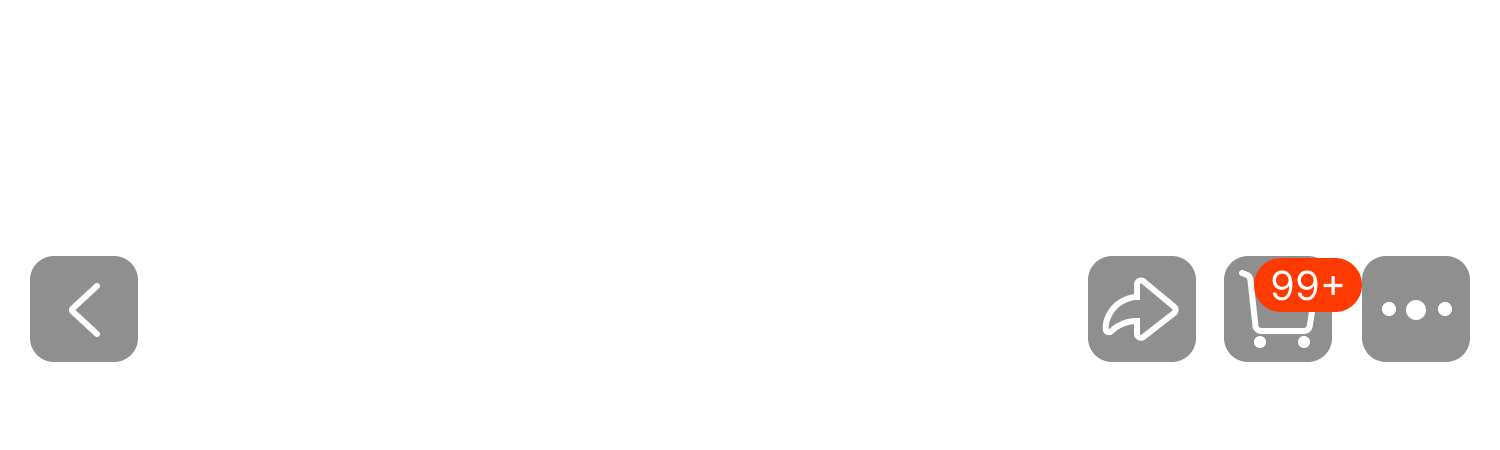
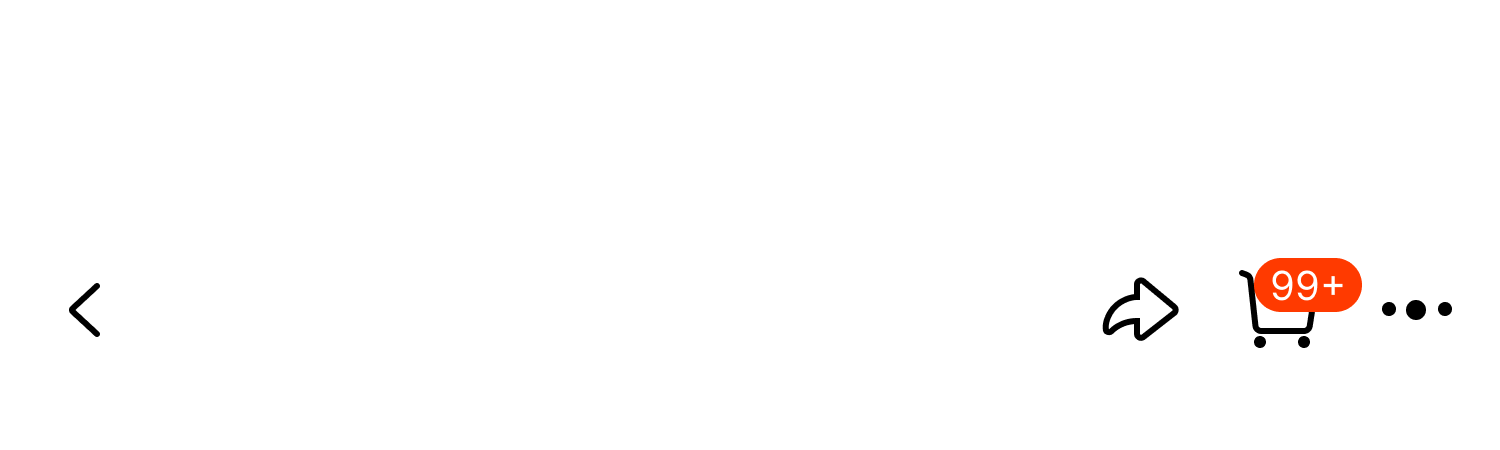
Build scroll header from supplied navigation asset

Changed region(s): [[0.7053, 0.56, 0.9813, 0.8089], [0.0, 0.56, 0.092, 0.8089]]

diff --git a/styles.css b/styles.css
@@ -1,3 +1,3 @@
 :root{--orange:#ff5000}*{box-sizing:border-box}html{background:#242424}body{margin:0;background:#242424;font-family:"PingFang SC","Helvetica Neue",sans-serif}.phone{position:relative;width:min(100%,430px);min-height:100vh;margin:0 auto;padding-bottom:68px;background:#fff;overflow:hidden}.topbar{position:absolute;z-index:10;left:0;right:0;top:0;display:flex;justify-content:space-between;padding:max(14px,env(safe-area-inset-top)) 12px 8px;pointer-events:none}.top-actions{display:flex;gap:7px}.icon-btn{pointer-events:auto;width:36px;height:36px;padding:0;border:0;border-radius:9px;background:rgba(35,35,35,.55);color:#fff;font-size:22px;line-height:34px;backdrop-filter:blur(10px)}.hero{position:relative;width:100%;aspect-ratio:3/4;background:#ededeb;overflow:hidden}.slides{display:flex;width:100%;height:100%;overflow-x:auto;scroll-snap-type:x mandatory;overscroll-behavior-x:contain;scrollbar-width:none}.slides::-webkit-scrollbar{display:none}.slide{flex:0 0 100%;width:100%;height:100%;margin:0;scroll-snap-align:start;scroll-snap-stop:always}.slide img{display:block;width:100%;height:100%;object-fit:cover}.counter{position:absolute;left:50%;bottom:8px;height:20px;min-width:36px;transform:translateX(-50%);padding:0 7px;border-radius:5px;background:rgba(0,0,0,.46);color:#fff;font-size:12px;line-height:20px;text-align:center}.detail{width:100%;aspect-ratio:790/14074;background:#fff;overflow:hidden}.detail img{display:block;width:100%;height:auto;transform:translateY(-1.923345%)}.buybar{position:fixed;z-index:20;left:50%;bottom:0;transform:translateX(-50%);width:min(100%,430px);height:68px;display:grid;grid-template-columns:42px 42px 1fr 1fr;gap:7px;align-items:center;padding:8px 10px max(8px,env(safe-area-inset-bottom));background:rgba(255,255,255,.97);box-shadow:0 -4px 18px rgba(0,0,0,.08);backdrop-filter:blur(12px)}.buybar button{border:0}.mini{height:50px;padding:2px 0;background:transparent;display:flex;flex-direction:column;justify-content:center;align-items:center}.mini b{font-size:21px;font-weight:400;line-height:1}.mini span{margin-top:5px;font-size:10px}.cart,.buy{height:48px;color:#fff;font-size:14px;font-weight:700}.cart{margin-left:3px;border-radius:24px 6px 6px 24px;background:#ffad00}.buy{border-radius:6px 24px 24px 6px;background:var(--orange)}.toast{position:fixed;z-index:30;left:50%;bottom:84px;transform:translate(-50%,12px);padding:9px 15px;border-radius:6px;background:rgba(0,0,0,.78);color:#fff;font-size:13px;opacity:0;pointer-events:none;transition:.2s}.toast.show{opacity:1;transform:translate(-50%,0)}@media(min-width:700px){body{padding:28px 0}.phone{box-shadow:0 22px 80px rgba(0,0,0,.55)}.buybar{bottom:28px}}
 .sprite{display:inline-block;flex:none;width:26px;height:26px;background-image:url('assets/taobao-reference.jpg');background-repeat:no-repeat;background-size:590px 1278px}.icon-btn .sprite{width:34px;height:34px;margin:1px}.sprite-back{background-position:-12px -81px}.sprite-share{background-position:-423px -81px}.sprite-cart{background-position:-479px -81px}.sprite-more{background-position:-533px -81px}.sprite-delivery{background-position:-20px -545px}.sprite-shield{background-position:-20px -634px}.sprite-spec{background-position:-20px -721px}.sprite-shop{background-position:-20px -1147px}.sprite-service{background-position:-88px -1147px}.variant-strip{display:flex;gap:10px;padding:10px 12px;overflow-x:auto;background:#4a4a4c;scrollbar-width:none}.variant{position:relative;flex:0 0 94px;height:58px;padding:0;border:2px solid transparent;border-radius:7px;background:#666;overflow:hidden;color:#fff}.variant.active{border-color:#ff7029;box-shadow:0 0 0 1px #fff inset}.variant img{width:47px;height:100%;object-fit:cover;float:left}.variant span{display:flex;height:100%;padding:4px;align-items:center;justify-content:center;font-size:12px;line-height:1.3}.commerce-info{padding:18px 16px 16px}.price-row{display:flex;justify-content:space-between;align-items:flex-end}.price{color:var(--orange);font-size:34px;font-weight:800;line-height:1}.price small{font-size:20px}.price-row>span{padding-bottom:3px;color:#888;font-size:13px}.commerce-info h1{margin:14px 0 15px;font-size:19px;line-height:1.5}.commerce-info mark{margin-right:5px;padding:2px 4px;border-radius:3px;background:#ef1747;color:#fff;font-size:13px}.trust-tags{display:flex;gap:8px;overflow:auto}.trust-tags span{white-space:nowrap;padding:7px 9px;border:1px solid #dfd1c0;border-radius:4px;color:#8c6339;font-size:12px}.vip-row{width:100%;display:flex;justify-content:space-between;gap:7px;margin-top:8px;padding:14px 16px;border:0;background:#f8e8d2;text-align:left;font-size:13px}.vip-row b{padding:2px 3px;background:#4b433b;color:#fff;font-size:10px}.vip-row strong{white-space:nowrap}.fulfillment{margin-top:8px;padding:0 16px}.fulfillment>button{width:100%;display:grid;grid-template-columns:36px 1fr 12px;gap:4px;align-items:start;padding:17px 0;border:0;border-bottom:1px solid #eee;background:#fff;text-align:left}.fulfillment>button:last-child{border:0}.fulfillment span>strong{display:block;margin-bottom:7px;font-size:15px}.fulfillment small{display:block;color:#333;font-size:13px;line-height:1.7}.fulfillment .green{color:#13a865}.fulfillment .brown{color:#8d6036}.fulfillment i{align-self:center;color:#aaa;font-style:normal;font-size:21px}.specs{display:grid;grid-template-columns:repeat(4,1fr);gap:5px}.specs em{min-width:0;padding-right:5px;border-right:1px solid #eee;font-style:normal}.specs em:last-child{border:0}.specs em strong{overflow:hidden;text-overflow:ellipsis;white-space:nowrap}.specs em small{color:#999;white-space:nowrap}.detail-divider{height:56px;display:flex;align-items:center;justify-content:center;background:#f4f4f4;color:#777;font-size:13px}.detail-divider:before,.detail-divider:after{content:"";width:54px;height:1px;margin:0 10px;background:#cfcfcf}.mini .sprite{width:28px;height:27px;margin:0}.mini>span:last-child{margin-top:4px;font-size:11px}
-.nav-image{display:block;width:36px;height:36px;object-fit:cover;border-radius:8px}.info-icon{display:block;width:28px;height:30px;object-fit:cover;object-position:center}.bottom-icon{display:block;width:30px;height:32px;object-fit:cover}.mini>span:last-child{margin-top:2px;font-size:11px}.section-gap{height:9px;background:#f3f3f3}.section-gap+.vip-row{margin-top:0}.counter{width:32px;min-width:0;padding:0;font-size:12px;font-weight:400;letter-spacing:0}.counter b{font-weight:inherit}.detail-heading{height:52px;display:flex;align-items:center;padding:0 16px;border-bottom:1px solid #eee;background:#fff;color:#111;font-size:17px;font-weight:600}.detail{aspect-ratio:790/13641.5}.buybar.buybar-original{height:auto;aspect-ratio:1580/250;display:block;padding:0;background:#fff}.buybar-original>img{display:block;width:100%;height:100%}.buybar-hotspot{position:absolute;top:0;height:100%;padding:0;border:0;background:transparent!important;opacity:0}.buybar-hotspot.cart{left:36.8%;width:30.5%;margin:0;border-radius:0}.buybar-hotspot.buy{left:67.3%;width:30.7%;height:100%;border-radius:0}.password-gate{position:fixed;z-index:100;inset:0;display:flex;align-items:center;justify-content:center;padding:24px;background:#f3f3f3}.password-gate.hidden{display:none}.password-card{width:min(100%,340px);padding:30px 24px;border-radius:18px;background:#fff;box-shadow:0 18px 60px rgba(0,0,0,.14);text-align:center}.password-card h1{margin:0;font-size:25px}.password-card p{margin:8px 0 22px;color:#777;font-size:14px}.password-card input{width:100%;height:46px;padding:0 14px;border:1px solid #ddd;border-radius:10px;font-size:16px;outline:none}.password-card input:focus{border-color:#ff5000}.password-card button{width:100%;height:46px;margin-top:12px;border:0;border-radius:23px;background:linear-gradient(90deg,#ffb000,#ff5000);color:#fff;font-size:16px;font-weight:600}.password-card small{display:block;min-height:18px;margin-top:8px;color:#e33;font-size:12px}button{font-family:inherit;color:inherit;-webkit-appearance:none;appearance:none;-webkit-tap-highlight-color:transparent}.vip-row{color:#2b2119}.fulfillment>button{color:#161616}.specs em strong{color:#161616}html,body{background:#ededeb}.phone{padding-bottom:calc(68px + env(safe-area-inset-bottom))}.buybar.buybar-original{aspect-ratio:auto;padding-bottom:env(safe-area-inset-bottom);box-shadow:0 -1px 8px rgba(0,0,0,.08)}.buybar-original>img{height:auto}.nav-top-image{position:absolute;z-index:5;top:0;left:0;display:block;width:100%;height:auto;pointer-events:none}.scroll-header{position:fixed;z-index:40;top:0;left:50%;width:min(100%,430px);padding-top:env(safe-area-inset-top);transform:translate(-50%,-12px);background:#fff;box-shadow:0 1px 0 #eee;opacity:0;visibility:hidden;pointer-events:none;transition:opacity .18s ease,transform .18s ease,visibility .18s}.scroll-header.visible{transform:translate(-50%,0);opacity:1;visibility:visible;pointer-events:auto}.scroll-header img{display:block;width:100%;height:auto}@media(display-mode:standalone){.phone{margin-top:calc(0px - env(safe-area-inset-top))}.nav-top-image{top:0}}@media(min-width:700px){html,body{background:#242424}.buybar.buybar-original{padding-bottom:0}}
+.nav-image{display:block;width:36px;height:36px;object-fit:cover;border-radius:8px}.info-icon{display:block;width:28px;height:30px;object-fit:cover;object-position:center}.bottom-icon{display:block;width:30px;height:32px;object-fit:cover}.mini>span:last-child{margin-top:2px;font-size:11px}.section-gap{height:9px;background:#f3f3f3}.section-gap+.vip-row{margin-top:0}.counter{width:32px;min-width:0;padding:0;font-size:12px;font-weight:400;letter-spacing:0}.counter b{font-weight:inherit}.detail-heading{height:52px;display:flex;align-items:center;padding:0 16px;border-bottom:1px solid #eee;background:#fff;color:#111;font-size:17px;font-weight:600}.detail{aspect-ratio:790/13641.5}.buybar.buybar-original{height:auto;aspect-ratio:1580/250;display:block;padding:0;background:#fff}.buybar-original>img{display:block;width:100%;height:100%}.buybar-hotspot{position:absolute;top:0;height:100%;padding:0;border:0;background:transparent!important;opacity:0}.buybar-hotspot.cart{left:36.8%;width:30.5%;margin:0;border-radius:0}.buybar-hotspot.buy{left:67.3%;width:30.7%;height:100%;border-radius:0}.password-gate{position:fixed;z-index:100;inset:0;display:flex;align-items:center;justify-content:center;padding:24px;background:#f3f3f3}.password-gate.hidden{display:none}.password-card{width:min(100%,340px);padding:30px 24px;border-radius:18px;background:#fff;box-shadow:0 18px 60px rgba(0,0,0,.14);text-align:center}.password-card h1{margin:0;font-size:25px}.password-card p{margin:8px 0 22px;color:#777;font-size:14px}.password-card input{width:100%;height:46px;padding:0 14px;border:1px solid #ddd;border-radius:10px;font-size:16px;outline:none}.password-card input:focus{border-color:#ff5000}.password-card button{width:100%;height:46px;margin-top:12px;border:0;border-radius:23px;background:linear-gradient(90deg,#ffb000,#ff5000);color:#fff;font-size:16px;font-weight:600}.password-card small{display:block;min-height:18px;margin-top:8px;color:#e33;font-size:12px}button{font-family:inherit;color:inherit;-webkit-appearance:none;appearance:none;-webkit-tap-highlight-color:transparent}.vip-row{color:#2b2119}.fulfillment>button{color:#161616}.specs em strong{color:#161616}html,body{background:#ededeb}.phone{padding-bottom:calc(68px + env(safe-area-inset-bottom))}.buybar.buybar-original{aspect-ratio:auto;padding-bottom:env(safe-area-inset-bottom);box-shadow:0 -1px 8px rgba(0,0,0,.08)}.buybar-original>img{height:auto}.nav-top-image{position:absolute;z-index:5;top:0;left:0;display:block;width:100%;height:auto;pointer-events:none}.scroll-header{position:fixed;z-index:40;top:0;left:50%;width:min(100%,430px);transform:translate(-50%,-12px);background:#fff;box-shadow:0 1px 0 #eee;opacity:0;visibility:hidden;pointer-events:none;transition:opacity .18s ease,transform .18s ease,visibility .18s}.scroll-header.visible{transform:translate(-50%,0);opacity:1;visibility:visible;pointer-events:auto}.scroll-header-main{position:relative;width:100%;aspect-ratio:1500/450}.scroll-header-main>img{display:block;width:100%;height:auto}.scroll-search{position:absolute;left:10.2%;top:57.5%;width:61.5%;height:30%;display:flex;align-items:center;gap:7px;padding:0 12px;border-radius:9px;background:#f3f3f5;color:#8b8b91;font-size:14px;white-space:nowrap;overflow:hidden}.scroll-search-icon{color:#111;font-size:24px;line-height:1}.scroll-tabs{height:44px;display:grid;grid-template-columns:repeat(3,1fr);border-bottom:1px solid #eee;background:#fff}.scroll-tabs button{border:0;background:#fff;color:#8d8d92;font-size:15px}.scroll-tabs button:first-child{color:#111;font-weight:500}@media(display-mode:standalone){.phone{margin-top:calc(0px - env(safe-area-inset-top))}.nav-top-image{top:0}}@media(min-width:700px){html,body{background:#242424}.buybar.buybar-original{padding-bottom:0}}

diff --git a/index.html b/index.html
@@ -23,7 +23,15 @@
     </form>
   </section>
   <div class="scroll-header" id="scrollHeader" aria-hidden="true">
-    <img src="assets/scroll-header.png" alt="" />
+    <div class="scroll-header-main">
+      <img src="assets/nav-top-but.png" alt="" />
+      <div class="scroll-search"><span class="scroll-search-icon">⌕</span><span>Nike 男子公路跑步鞋</span></div>
+    </div>
+    <nav class="scroll-tabs" aria-label="商品页面导航">
+      <button data-scroll-target=".commerce-info">宝贝</button>
+      <button data-scroll-target=".detail-heading">详情</button>
+      <button data-scroll-target=".detail">推荐</button>
+    </nav>
   </div>
   <main class="phone">
     <section class="hero" aria-label="商品头图轮播">
@@ -38,7 +46,7 @@
       <div class="counter"><b id="current">1</b>/<span id="total">5</span></div>
     </section>
 
-    <section class="commerce-info">
+    <section class="commerce-info" id="productInfo">
       <div class="price-row"><div class="price"><small>¥</small>1399</div><span>已售 200+</span></div>
       <h1><mark>天猫</mark>Nike 男子公路跑步鞋 ZoomX 回弹缓震运动鞋</h1>
       <div class="trust-tags"><span>店铺一年回头客 200万+</span><span>官方正品保障</span></div>
@@ -54,7 +62,7 @@
     </section>
 
     <div class="section-gap" aria-hidden="true"></div>
-    <div class="detail-heading">宝贝详情</div>
+    <div class="detail-heading" id="productDetail">宝贝详情</div>
     <section class="detail" aria-label="商品详情长图">
       <img src="assets/shoe-detail-long.jpeg" alt="Nike Performance FTW 完整商品详情" />
     </section>

diff --git a/script.js b/script.js
@@ -4,6 +4,7 @@ const passwordForm = document.querySelector('#passwordForm');
 const passwordInput = document.querySelector('#passwordInput');
 const passwordError = document.querySelector('#passwordError');
 const scrollHeader = document.querySelector('#scrollHeader');
+const hero = document.querySelector('.hero');
 
 async function passwordDigest(value) {
   const bytes = new TextEncoder().encode(value);
@@ -26,11 +27,18 @@ passwordForm.addEventListener('submit', async (event) => {
 });
 
 function updateScrollHeader() {
-  scrollHeader.classList.toggle('visible', window.scrollY > 80);
+  const revealAt = Math.max(80, hero.offsetHeight - 150);
+  scrollHeader.classList.toggle('visible', window.scrollY > revealAt);
 }
 
 window.addEventListener('scroll', updateScrollHeader, { passive: true });
 updateScrollHeader();
+
+document.querySelectorAll('[data-scroll-target]').forEach((button) => {
+  button.addEventListener('click', () => {
+    document.querySelector(button.dataset.scrollTarget)?.scrollIntoView({ behavior: 'smooth' });
+  });
+});
 const current = document.querySelector('#current');
 const total = document.querySelector('#total');
 const count = slides.children.length;

diff --git a/service-worker.js b/service-worker.js
@@ -1,4 +1,4 @@
-const CACHE_NAME = 'nike-pdp-v11';
+const CACHE_NAME = 'nike-pdp-v12';
 const APP_SHELL = [
   './',
   './index.html',
@@ -8,8 +8,7 @@ const APP_SHELL = [
   './assets/app-icon-192.png',
   './assets/app-icon-512.png',
   './assets/apple-touch-icon.png',
-  './assets/nav-top-but.png',
-  './assets/scroll-header.png'
+  './assets/nav-top-but.png'
 ];
 
 self.addEventListener('install', (event) => {
